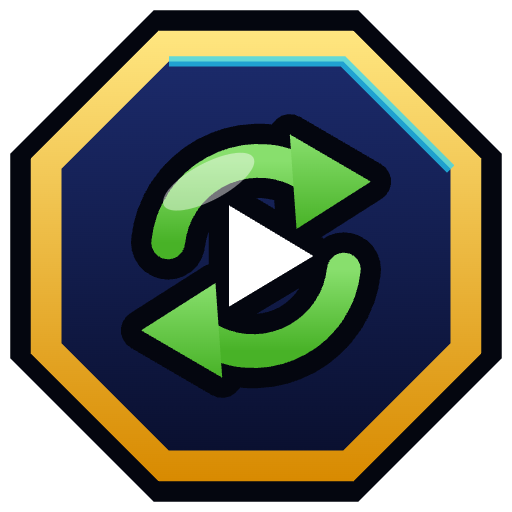
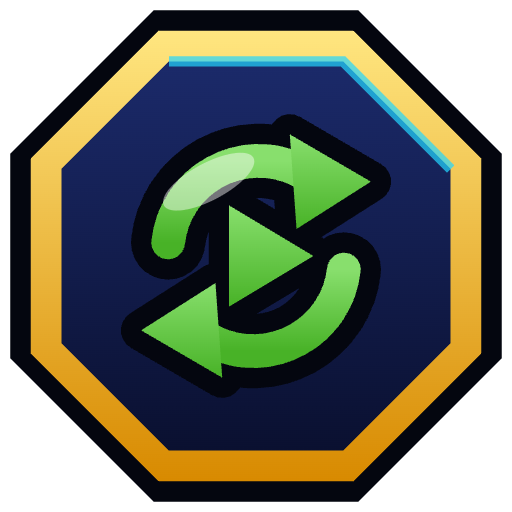
Auto badge triangle green; owner approved the badge, Turbo and minibar look (4.40)

Changed region(s): [[0.4375, 0.4062, 0.625, 0.5938]]

diff --git a/docs/GAME_DESIGN_REQUIREMENTS.md b/docs/GAME_DESIGN_REQUIREMENTS.md
@@ -500,7 +500,7 @@ before any Studio work.
 - Auto state (owner 2026-11-05, replaces the grey icon and pulsing ring): the icon is green in both states; while auto race is on, its arrows spin around the still triangle. No spin during the 1 s press lock. It only asks: the server decides (`Remotes.SetAutoRace`).
 - A roll gets the big popup (emphasized view and server announcement, `GachaConfig.IsEmphasized`) only when the character is undiscovered and at least 100 times rarer (`EMPHASIS_MULTI`) than the player's 3rd-rarest discovered character (`EMPHASIS_RANK`). With fewer than 3 discovered, the bar is 100 times the starter, which counts as 1 in 1: 1 in 100. The first 3 discoveries no longer pop up automatically. This replaces the earlier rule of "rarer than the 5th-rarest; any new character below 5 discovered".
 - Icon style (owner 2026-11-10, later the same day, replaces "today's art, no badge"; Gold badge rendition of https://claude.ai/artifact/BsGoBYpDW5AKTsmoFzDHjv): the HUD icons (Index, Items, Rebirth, Quests, Shop, Market, Auto, Upgrade, Daily, Settings) and the Gem and Boss icons are the art inside a gold octagon badge with a navy inside, the art centred; the tile icons sit in the gold frame tile (`assets/ui/hud_badges/<Name>.png`, with the tile art `HudTile.png`). The Auto badge is two layers, so its arrows still spin around the still triangle. The NEW tag shown in that reference stays out (not asked for); its keybind letters are in "HUD tiles and layout".
-- Turbo bar and Team minibar look (owner 2026-11-10): the TURBO LUCK / TURBO bar and the bottom Team minibar (the 3 team portraits above TURBO LUCK) take the HUD tiles' look: gold bevel rim, navy inside, white heavy text with a dark outline. The Turbo fill keeps its colour inside a gold-rimmed navy track; each portrait keeps its circle, stamina arc and head breaking out of it (4.3), the circle now navy with a gold rim, and its stamina seconds number sits on a dark plate. The stamina arc is a smooth curved band with both ends cut on a slant, never round or square: a curved parallelogram (owner 2026-11-10); the empty end and the moving fill end share one slant, about 30 degrees off the radial (**proposed**). Sizes, positions and behaviour are unchanged. The look is **proposed**, for owner approval from screenshots.
+- Turbo bar and Team minibar look (owner 2026-11-10): the TURBO LUCK / TURBO bar and the bottom Team minibar (the 3 team portraits above TURBO LUCK) take the HUD tiles' look: gold bevel rim, navy inside, white heavy text with a dark outline. The Turbo fill keeps its colour inside a gold-rimmed navy track; each portrait keeps its circle, stamina arc and head breaking out of it (4.3), the circle now navy with a gold rim, and its stamina seconds number sits on a dark plate. The stamina arc is a smooth curved band with both ends cut on a slant, never round or square: a curved parallelogram (owner 2026-11-10); the empty end and the moving fill end share one slant, about 30 degrees off the radial (**proposed**). Sizes, positions and behaviour are unchanged. Owner approved the look from Studio screenshots 2026-11-10 (https://claude.ai/artifact/EBGivrQCsR7UVunb4XWNwH), with the Auto badge's play triangle green; exact sizes, colours and the slant angle stay **proposed**.
 - HUD tiles and layout (owner 2026-11-10, Tile 1 "Gold frame" and layout L2 of https://claude.ai/artifact/BsGoBYpDW5AKTsmoFzDHjv; replaces the transparent frameless tiles, the left grid of 3, the right Shop column and the Market pill above). Each HUD button is a rounded square tile with a gold bevel rim and a navy inside, the same for every button: the rims are not colour coded. The icon sits at the top of the tile, with the label (white, dark outline) inside at the bottom. The red count badge stays at the top-left corner. One 2-column block on the left edge holds, top to bottom: Index and Items, Rebirth and Quests, Shop and Market. Daily and Settings stay as the top-right pills. Auto and Upgrade stay as the bottom pair beside the LEVEL / TURBO LUCK bars, in the same tile. The right edge has no HUD buttons, so wider panels (4.42) centre in the space right of the block. Phones shrink the block (4.27). Keybind letters (owner 2026-11-10): each left-block tile shows its key letter in its top-right corner, as in the reference (white heavy text, dark outline), and on keyboard that key opens the panel (same as clicking the tile): Index X, Items B, Rebirth R, Quests Q, Shop P, Market M. Shop and Index are not S and I because S walks backward and I zooms the camera (owner 2026-11-10). Letters show only when a keyboard is in use (hidden on touch and gamepad). No NEW tag (not asked for). Sizes and gaps are **proposed**.
 
 ### 4.41 Character bag and auto sell (owner 2026-11-04)
